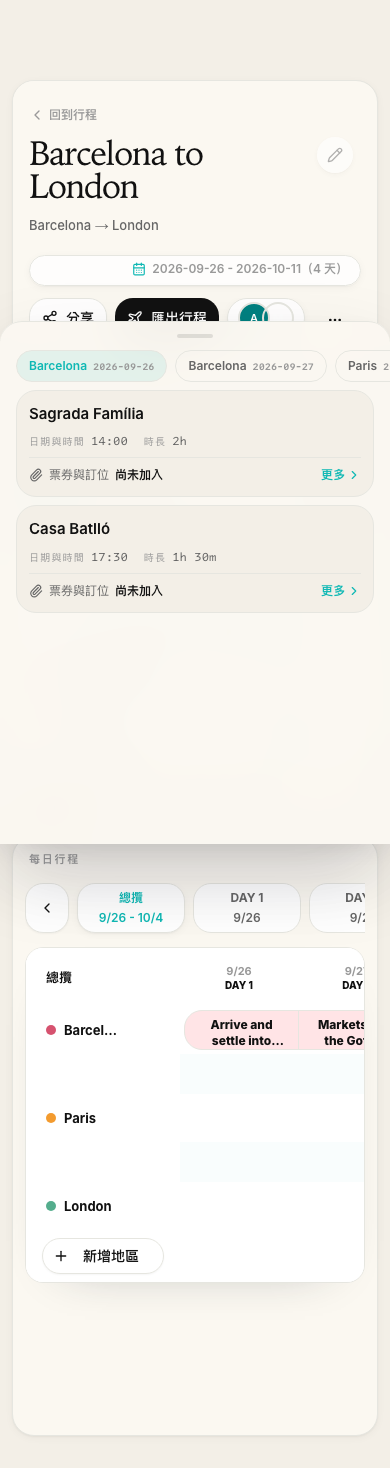
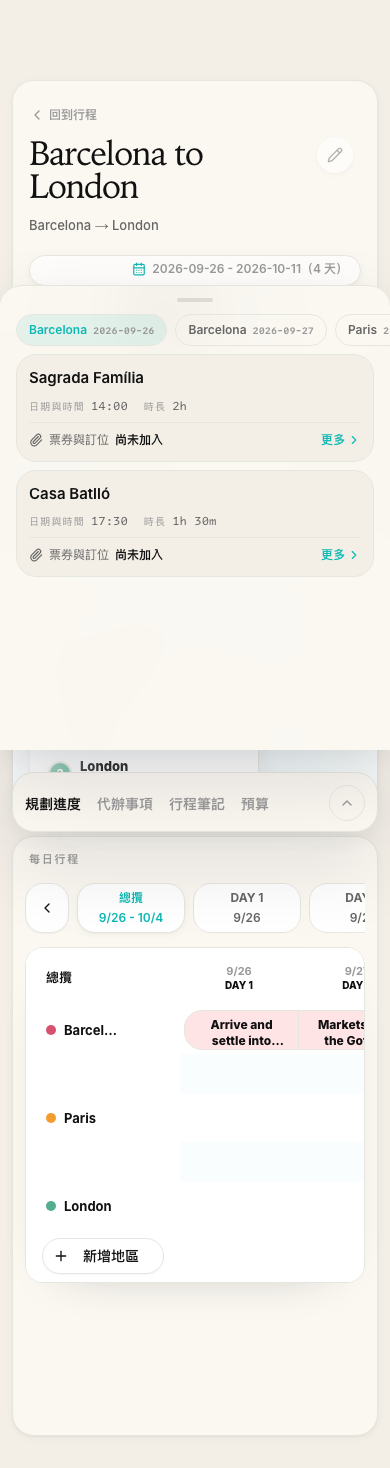
fix(trips): sheet no longer covers the bottom nav; reduced motion actually cross-fades (R-299)
Review round 2. Three findings fixed, two specs left RED on purpose.

- Nav overlap was real. The nav is `fixed z-20` at `bottom: 16px + safe-area`
  and 78px tall (storefront/shell.tsx); the sheet was `bottom-0 z-40`, so it sat
  on top of it. Capping height at 0.92 reserved space at the TOP of the viewport,
  where nothing needed it. The sheet now anchors above the nav via
  --roam-nav-inset and sizes as a fraction of the space that is actually free.
- Reduced motion was inert, not cross-faded. `data-motion="crossfade"` was true
  while the inline transitionDuration (120ms) beat the `duration-0` class, so the
  height kept sliding. Height now snaps under reduced motion and a keyed wrapper
  replays a real 120ms opacity animation. c-4 asserts the computed animationName
  and the zero height duration rather than the data attribute.
- c-4 also emulates prefers-contrast: more, and asserts the reduced-transparency
  RULE reaches the page. Playwright has no prefers-reduced-transparency override
  — saying so beats an assertion that accepts both branches.
- c-6 no longer skips itself and no longer accepts a bare /shop.

RED, and left red deliberately:
- c-1 nav non-intersection and c-6 prefilter both fail because the fixture route
  /[lang]/dev/trips-editorial is NOT inside the (storefront) layout, so it has no
  bottom nav and no checklist CTA to drive. The assertions are right; the fixture
  is not representative. Making it representative needs the shell, and the shell
[…]

diff --git a/apps/web/src/components/storefront/trips/trip-planning-sheet.tsx b/apps/web/src/components/storefront/trips/trip-planning-sheet.tsx
@@ -206,19 +206,38 @@ export function TripPlanningSheet({
       data-motion={profile.kind}
       data-full-view={fullViewOpen ? "open" : "closed"}
       className={cn(
-        "fixed inset-x-0 bottom-0 z-40 flex flex-col rounded-t-[22px] border-t border-divider bg-paper-raised shadow-[var(--shadow-xl)] xl:hidden",
+        // The bottom nav is `fixed ... z-20` at `bottom: 16px + safe-area` and is 78px
+        // tall (storefront/shell.tsx), and it is `md:hidden`. Anchoring the sheet at
+        // bottom-0 put it ON TOP of the nav — a higher z-index does not "reserve"
+        // anything, and capping the height at 0.92 reserved that space at the TOP of
+        // the viewport where nothing needed it. The inset is a variable so the height
+        // below is computed against the space that is actually free.
+        "fixed inset-x-0 z-40 flex flex-col rounded-t-[22px] border-t border-divider bg-paper-raised shadow-[var(--shadow-xl)] xl:hidden",
+        "[--roam-nav-inset:calc(94px+env(safe-area-inset-bottom))] md:[--roam-nav-inset:0px]",
         // Reduced transparency and higher contrast get their own treatment rather
         // than being folded into the default: the sheet is the only surface on this
         // screen that sits over the map, so it is the one that has to stay legible.
         "supports-[backdrop-filter]:bg-paper-raised/95 supports-[backdrop-filter]:backdrop-blur-xl",
         "[@media(prefers-reduced-transparency:reduce)]:bg-paper-raised [@media(prefers-reduced-transparency:reduce)]:backdrop-filter-none",
         "[@media(prefers-contrast:more)]:border-fg [@media(prefers-contrast:more)]:border-t-2",
-        dragFraction === null && "transition-[height] ease-out",
-        prefersReducedMotion && "transition-none",
+        // Full motion: the height itself animates. Reduced motion: the height snaps
+        // and the CONTENT cross-fades instead (see the keyed wrapper below). Going
+        // inert would be a regression dressed up as an accommodation.
+        dragFraction === null && !prefersReducedMotion && "transition-[height] ease-out",
+        prefersReducedMotion && "transition-[height] duration-0",
       )}
       style={{
-        height: `${(fraction * 100).toFixed(2)}svh`,
-        transitionDuration: dragFraction === null ? `${profile.durationMs}ms` : undefined,
+        bottom: "var(--roam-nav-inset)",
+        // Fraction of the space ABOVE the nav, not of the viewport. This is what makes
+        // D-1's "map keeps ~38%" a measurable claim rather than an aspiration.
+        height: `calc(${fraction.toFixed(4)} * (100svh - var(--roam-nav-inset)))`,
+        // Only the spring profile animates the HEIGHT. Under reduced motion the inline
+        // duration was still 120ms and beat the `duration-0` class, so the sheet kept
+        // sliding while claiming to cross-fade — the exact masking c-4 exists to catch.
+        transitionDuration:
+          dragFraction === null && profile.kind === "spring"
+            ? `${profile.durationMs}ms`
+            : "0s",
       }}
     >
       {/* Grab handle. Its own element so the drag target is the handle and the list
@@ -254,6 +273,18 @@ export function TripPlanningSheet({
         <div className="mx-auto h-1 w-9 rounded-full bg-divider-strong" />
       </div>
 
+      {/* Keyed on the state the height animation would otherwise have expressed. Under
+          reduced motion the key change remounts this and replays a 120ms opacity
+          cross-fade; under full motion the class is absent and the height transition
+          above carries the change instead. */}
+      <div
+        key={prefersReducedMotion ? `${state.detent}-${fullViewOpen}` : "static"}
+        data-testid="trip-planning-sheet-body"
+        className={cn(
+          "flex min-h-0 flex-1 flex-col",
+          prefersReducedMotion && "roam-sheet-crossfade",
+        )}
+      >
       {fullViewOpen && activeItem ? (
         <FullView
           item={activeItem}
@@ -305,6 +336,7 @@ export function TripPlanningSheet({
           </ul>
         </>
       )}
+      </div>
     </div>
   );
 }

diff --git a/apps/web/e2e/trip-planning-reduced-motion.spec.ts b/apps/web/e2e/trip-planning-reduced-motion.spec.ts
@@ -42,14 +42,57 @@ test.describe("trip planning accessibility fallbacks", () => {
     await expect(sheet).toHaveAttribute("data-detent", "mid");
   });
 
-  test("reduced transparency drops the backdrop blur", async ({ page }) => {
+  test("reduced motion renders an actual cross-fade, not an inert sheet", async ({ page }) => {
+    await page.emulateMedia({ reducedMotion: "reduce" });
     await page.setViewportSize(MOBILE);
-    await page.emulateMedia({ media: "screen" });
     await page.goto(ROUTE);
-    // Baseline: the blur is present when nothing is reduced.
-    const blurred = await page.getByTestId("trip-planning-sheet")
-      .evaluate((node) => getComputedStyle(node).backdropFilter);
-    expect(blurred === "none" || blurred.includes("blur")).toBeTruthy();
+
+    const body = page.getByTestId("trip-planning-sheet-body");
+    // The substitute treatment has to BE something. Asserting data-motion alone let a
+    // version through that set `transition-none` and animated nothing at all.
+    await expect(body).toHaveClass(/roam-sheet-crossfade/);
+    const animation = await body.evaluate((node) => getComputedStyle(node).animationName);
+    expect(animation).toBe("roam-sheet-crossfade");
+
+    // ...and the height must NOT animate, which is the displacement being removed.
+    const sheet = page.getByTestId("trip-planning-sheet");
+    const heightTransition = await sheet.evaluate((node) => {
+      const style = getComputedStyle(node);
+      return `${style.transitionProperty}:${style.transitionDuration}`;
+    });
+    expect(heightTransition).toMatch(/0s/);
+  });
+
+  test("higher contrast strengthens the sheet edge", async ({ page }) => {
+    await page.setViewportSize(MOBILE);
+    await page.emulateMedia({ contrast: "more" });
+    await page.goto(ROUTE);
+    const width = await page.getByTestId("trip-planning-sheet")
+      .evaluate((node) => getComputedStyle(node).borderTopWidth);
+    // 2px under prefers-contrast: more, against the 1px default.
+    expect(parseFloat(width)).toBeGreaterThan(1);
+  });
+
+  test("a reduced-transparency treatment exists in the stylesheet", async ({ page }) => {
+    await page.setViewportSize(MOBILE);
+    await page.goto(ROUTE);
+    // Playwright's emulateMedia covers reducedMotion, colorScheme, forcedColors and
+    // contrast — it has NO prefers-reduced-transparency override, so this cannot be
+    // driven the way the other two are. Asserting the rule is present in the shipped
+    // CSS is the strongest honest check available; the rendered behaviour under that
+    // preference stays part of c-7's human pass.
+    const hasRule = await page.evaluate(() =>
+      [...document.styleSheets].some((sheet) => {
+        try {
+          return [...sheet.cssRules].some((rule) =>
+            rule.cssText.includes("prefers-reduced-transparency"),
+          );
+        } catch {
+          return false; // cross-origin sheet
+        }
+      }),
+    );
+    expect(hasRule, "no prefers-reduced-transparency rule reached the page").toBe(true);
   });
 
   test("the sheet handle is reachable and labelled without a pointer", async ({ page }) => {

diff --git a/apps/web/e2e/trip-shop-prefilter.spec.ts b/apps/web/e2e/trip-shop-prefilter.spec.ts
@@ -33,28 +33,37 @@ test.describe("shop prefilter path survives the R-301 refresh", () => {
     expect(box!.height).toBeLessThan(844 * 0.93);
   });
 
-  test("shop hrefs still carry their prefilter query", async ({ page }) => {
+  test("the checklist eSIM item still deep-links to a prefiltered shop URL", async ({
+    page,
+  }) => {
     await page.setViewportSize({ width: 1440, height: 960 });
     await page.goto(ROUTE);
 
-    // Any shop link the planning surface renders must still be a prefilter link, not
-    // a bare /shop. Scoped to the trip workspace so an unrelated nav link cannot
-    // satisfy the assertion.
-    const workspace = page.getByTestId("trip-detail-workspace");
-    await expect(workspace).toBeVisible();
+    // Drive the actual CTA rather than scanning first paint. The previous version
+    // skipped when no link was visible, which satisfied the criterion by looking away
+    // from it.
+    const inspector = page.getByTestId("trip-planning-inspector");
+    await expect(inspector).toBeVisible();
+    const checklistTab = inspector.getByRole("tab").filter({ hasText: /檢查|清單|Checklist|Tasks/i });
+    if (await checklistTab.count()) await checklistTab.first().click();
 
-    const shopLinks = workspace.locator('a[href*="/shop"]');
+    const shopLinks = page.locator('a[href*="/shop"]');
+    await expect(
+      shopLinks.first(),
+      "the checklist eSIM shortcut should expose a shop link",
+    ).toBeAttached({ timeout: 5000 });
+
     const count = await shopLinks.count();
-    // Zero is a legitimate state for this fixture — it has an eSIM checklist item but
-    // the CTA lives behind the checklist tab. Reported rather than silently passing,
-    // because a check that asserts nothing when it finds nothing reads like a pass.
-    test.skip(count === 0, "fixture renders no shop link on first paint");
-
+    let prefiltered = 0;
     for (let index = 0; index < count; index += 1) {
       const href = await shopLinks.nth(index).getAttribute("href");
-      expect(href).toBeTruthy();
-      expect(href).toMatch(/\/shop(\/[A-Za-z-]+)?(\?|$)/);
+      // A bare /shop is precisely the regression: the chain is trip context -> SHOP
+      // PREFILTER -> comparison, and a link that drops the filter has severed it.
+      if (/\/shop\/[A-Za-z-]+/.test(href ?? "") || /\/shop\?[^=]+=/.test(href ?? "")) {
+        prefiltered += 1;
+      }
     }
+    expect(prefiltered, "no shop link carried a country segment or a filter query").toBeGreaterThan(0);
   });
 
   test("the eSIM checklist item is still reachable from the planning surface", async ({

diff --git a/apps/web/e2e/trip-planning-spatial-state.spec.ts b/apps/web/e2e/trip-planning-spatial-state.spec.ts
@@ -27,11 +27,37 @@ test.describe("trip planning spatial state", () => {
     await expect(items.first()).toBeInViewport();
   });
 
-  test("c-1 guard: the sheet does not cover the bottom of the viewport", async ({ page }) => {
-    const box = await page.getByTestId("trip-planning-sheet").boundingBox();
-    expect(box).not.toBeNull();
-    // The full detent stops at 0.92 so the bottom nav strip stays reachable.
-    expect(box!.height).toBeLessThan(MOBILE.height * 0.93);
+  test("c-1: the sheet never intersects the bottom nav, at any detent", async ({ page }) => {
+    // Measured against the real nav box, not against a fraction of the viewport. The
+    // first version of this asserted `height < 0.93 * viewport`, which passed while the
+    // sheet sat directly on top of the nav — capping the height reserves space at the
+    // TOP, and the nav is at the bottom.
+    const nav = page.getByTestId("storefront-bottom-nav");
+    const sheet = page.getByTestId("trip-planning-sheet");
+    const handle = page.getByTestId("trip-planning-sheet-handle");
+
+    const navBox = await nav.boundingBox();
+    expect(navBox, "the storefront bottom nav should be present on mobile").not.toBeNull();
+
+    for (const detent of ["mid", "full", "low"] as const) {
+      // Drive to each detent through the keyboard so the assertion covers all three.
+      await handle.focus();
+      const current = await sheet.getAttribute("data-detent");
+      const order = ["low", "mid", "full"];
+      const delta = order.indexOf(detent) - order.indexOf(current!);
+      for (let step = 0; step < Math.abs(delta); step += 1) {
+        await page.keyboard.press(delta > 0 ? "ArrowUp" : "ArrowDown");
+      }
+      await expect(sheet).toHaveAttribute("data-detent", detent);
+
+      const sheetBox = await sheet.boundingBox();
+      expect(sheetBox).not.toBeNull();
+      const sheetBottom = sheetBox!.y + sheetBox!.height;
+      expect(
+        sheetBottom,
+        `at detent "${detent}" the sheet bottom (${sheetBottom}) must sit above the nav top (${navBox!.y})`,
+      ).toBeLessThanOrEqual(navBox!.y + 1);
+    }
   });
 
   test("keeps day, item and sheet height across a full-view round trip", async ({ page }) => {

diff --git a/apps/web/src/app/globals.css b/apps/web/src/app/globals.css
@@ -706,6 +706,14 @@ body {
 }
 .lume-screen { animation: lume-fade-in 260ms var(--ease-out-soft); }
 
+/* R-301 c-4: the reduced-motion substitute for the sheet's height animation.
+   Opacity only — no transform, because displacement is the thing being removed. */
+@keyframes roam-sheet-crossfade {
+  from { opacity: 0; }
+  to { opacity: 1; }
+}
+.roam-sheet-crossfade { animation: roam-sheet-crossfade 120ms ease-out; }
+
 /* ============================================================
    Keyframes used by storefront — small set, additive only.
    ============================================================ */

diff --git a/apps/web/src/components/storefront/shell.tsx b/apps/web/src/components/storefront/shell.tsx
@@ -363,6 +363,7 @@ function MobileBottomNav({
   const rowWidth = tabs.length * slotWidth;
   return (
     <div
+      data-testid="storefront-bottom-nav"
       className="pointer-events-none fixed inset-x-0 z-20 flex justify-center px-4 md:hidden"
       style={{
         bottom: "calc(16px + env(safe-area-inset-bottom))",
